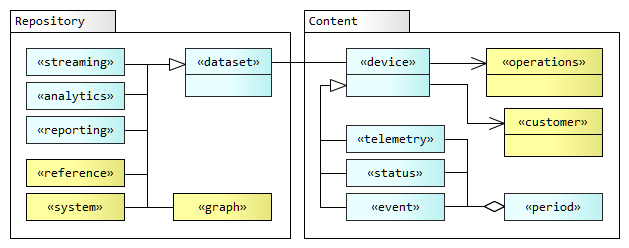
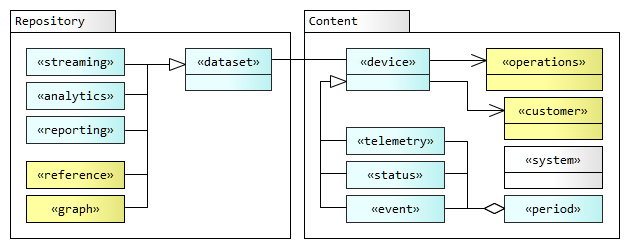
ok

diff --git a/api.sundaya.monitored.equipment/Implementation/Architecture/Data Metamodel.md b/api.sundaya.monitored.equipment/Implementation/Architecture/Data Metamodel.md
@@ -21,9 +21,10 @@ Dataset | Repository | Content | Application
 [streaming.device]() | `streaming` | `telemetry` | `OI dashboard`
 [monitoring.pms](https://docs.sundaya.monitored.equipment/docs/api.sundaya.monitored.equipment/0/c/Implementation/Datasets/monitoring/pms), [monitoring.inverter](https://docs.sundaya.monitored.equipment/docs/api.sundaya.monitored.equipment/0/c/Implementation/Datasets/monitoring/inverter), [monitoring.mppt](https://docs.sundaya.monitored.equipment/docs/api.sundaya.monitored.equipment/0/c/Implementation/Datasets/monitoring/mppt) | `analytics` | `telemetry` | `BI dashboard`
 [reporting.device_period](https://docs.sundaya.monitored.equipment/docs/api.sundaya.monitored.equipment/0/c/Implementation/Datasets/reporting/monitoring) | `reporting` | `period` | `API producer`
-[reporting.service]() | `reporting` | `customer`, `operations` | `API producer`
+[graph.customer_service]() | `graph` | `customer`, `operations` | `API producer`
 [reference.site](https://docs.sundaya.monitored.equipment/docs/api.sundaya.monitored.equipment/0/c/Implementation/Datasets/reference/site), [reference.installation](https://docs.sundaya.monitored.equipment/docs/api.sundaya.monitored.equipment/0/c/Implementation/Datasets/reference/installation) | `reference` | `customer` |
-[system.pms_pack](https://docs.sundaya.monitored.equipment/docs/api.sundaya.monitored.equipment/0/c/Implementation/Datasets/system/pms_pack), [system.source](https://docs.sundaya.monitored.equipment/docs/api.sundaya.monitored.equipment/0/c/Implementation/Datasets/system/source) | `system` | `operations` |
+[reference.pms_pack](https://docs.sundaya.monitored.equipment/docs/api.sundaya.monitored.equipment/0/c/Implementation/Datasets/system/pms_pack) | `reference` | `customer` |
+[system.source](https://docs.sundaya.monitored.equipment/docs/api.sundaya.monitored.equipment/0/c/Implementation/Datasets/system/source) | `system` | `operations` |
 
 ---
 
@@ -52,12 +53,6 @@ Dataset | Repository | Content | Application
 
     The data is stored in a denormalised wide-column database for fast access by **API producer** services and transactional systems (OLTP).
 
-- **graph** - the _graph_ dataset contains graph-like information about _customer_ and _operations_ entities and their relationships, such as the sales and service network.
-
-    The dataset is materialised from content and links held in sheets. 
-
-    The data is stored in the same wide-column database as **reporting**, and is intended for access by **API producer** services and transactional systems (OLTP).
-
 ### Secondary repositories 
 
 - **reference** - the _reference_ dataset contains _master_ data for customers, suppliers, personnel, sites, products and services. 
@@ -66,9 +61,11 @@ Dataset | Repository | Content | Application
     
     The reference data is stored as sheets or JSON in a document database.
 
-- **system** - the _system_ dataset contains configuration data for the data management platform, including data needed for security, traceability, and data provenance. 
+- **graph** - the _graph_ dataset contains graph-like information about _customer_ and _operations_ entities and their relationships, such as the sales and service network.
 
-    It includes script parameters and configuration data for provisioning and commissioning devices.
+    The dataset is materialised from content and links held in sheets. 
+
+    The data is stored in the same wide-column database as **reporting**, and is intended for access by **API producer** services and transactional systems (OLTP).
 
 ### Device data
 
@@ -87,6 +84,10 @@ Dataset | Repository | Content | Application
 - **event** - events are produced from telemetry and status data at the edge, based on rules or predictions. Rule-based events select variables from the data according to configurable parameters. Predicted events are based on features in the data which are applied to downloaded ML models. 
 
 - **period** - period data is aligned with the epoch (starting millisecond) of categorical periods such as 'month', 'week', 'dayt' and 'timeofday'. Canonical periods are described in the [energy API](https://docs.sundaya.monitored.equipment/docs/api.sundaya.monitored.equipment/0/c/Getting%20Started/API%20Overview/Energy%20API) overview page.
+
+- **system** - the _system_ dataset contains configuration data for the data management platform, including data needed for security, traceability, and data provenance. 
+
+    It includes script parameters and configuration data for provisioning and commissioning devices.
 
 ---
 

diff --git a/api.sundaya.monitored.equipment/Implementation/Datasets/reporting/device_period.md b/api.sundaya.monitored.equipment/Implementation/Datasets/reporting/device_period.md
@@ -1,0 +1,5 @@
+# reporting.device_period
+
+---
+
+

diff --git a/api.sundaya.monitored.equipment/Implementation/Datasets/graph/customer_service.md b/api.sundaya.monitored.equipment/Implementation/Datasets/graph/customer_service.md
@@ -1,0 +1,4 @@
+# graph.customer_service
+---
+
+
